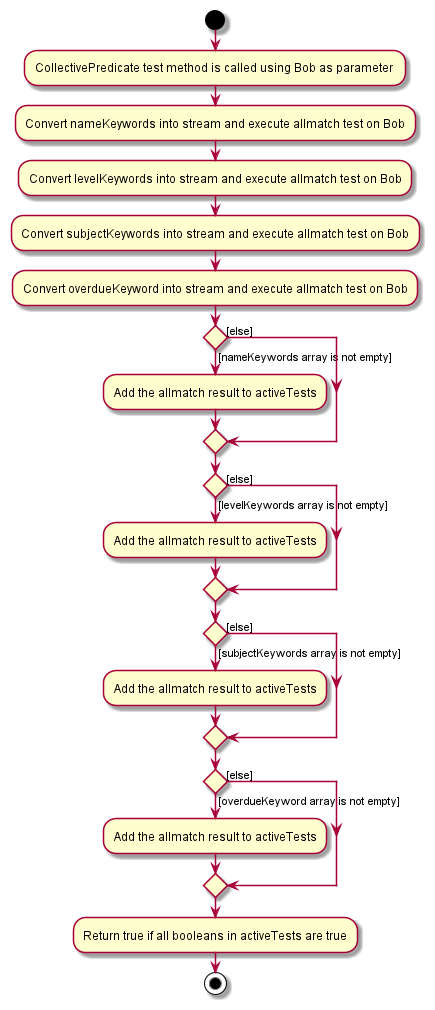
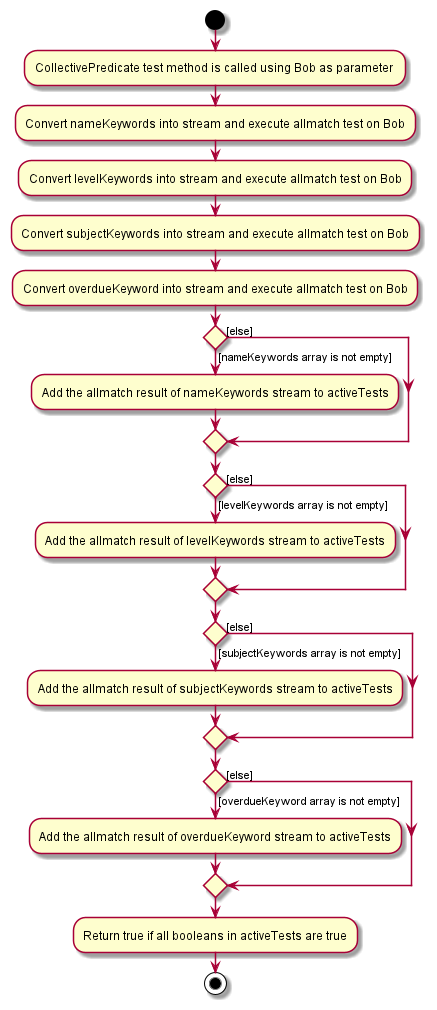
Update collectivePredicate diagram

diff --git a/docs/DeveloperGuide.md b/docs/DeveloperGuide.md
@@ -337,9 +337,9 @@ We had 2 design ideas of the `find` command:
 2. Allow `find` to search with multiple keywords, and return tutees that fulfills **all** keywords
 
 We decided on the 2nd implementation due to the reasons:
-* Everytime a new keyword is supplied, the returned tutee list will be equals to or smaller than without the new keyword,
-as opposed to design 1, where the tutee list is equals to or longer than the without the keyword. 
-* We want the find feature to address the issue of tutee list being too cluttered when number of tutees increases, so
+* Everytime a new keyword is supplied, the returned `tuteelist` will be equals to or smaller than without the new keyword,
+as opposed to design 1, where the `tuteelist` is equals to or longer than the without the keyword. 
+* We want the find feature to address the issue of `tuteelist` being too cluttered when number of tutees increases, so
 design 2 fits our requirement better.
 * In addition, it enables tutors to find a specific tutee by adding additional keywords if many tutees share the same name.
 --------------------------------------------------------------------------------------------------------------------
